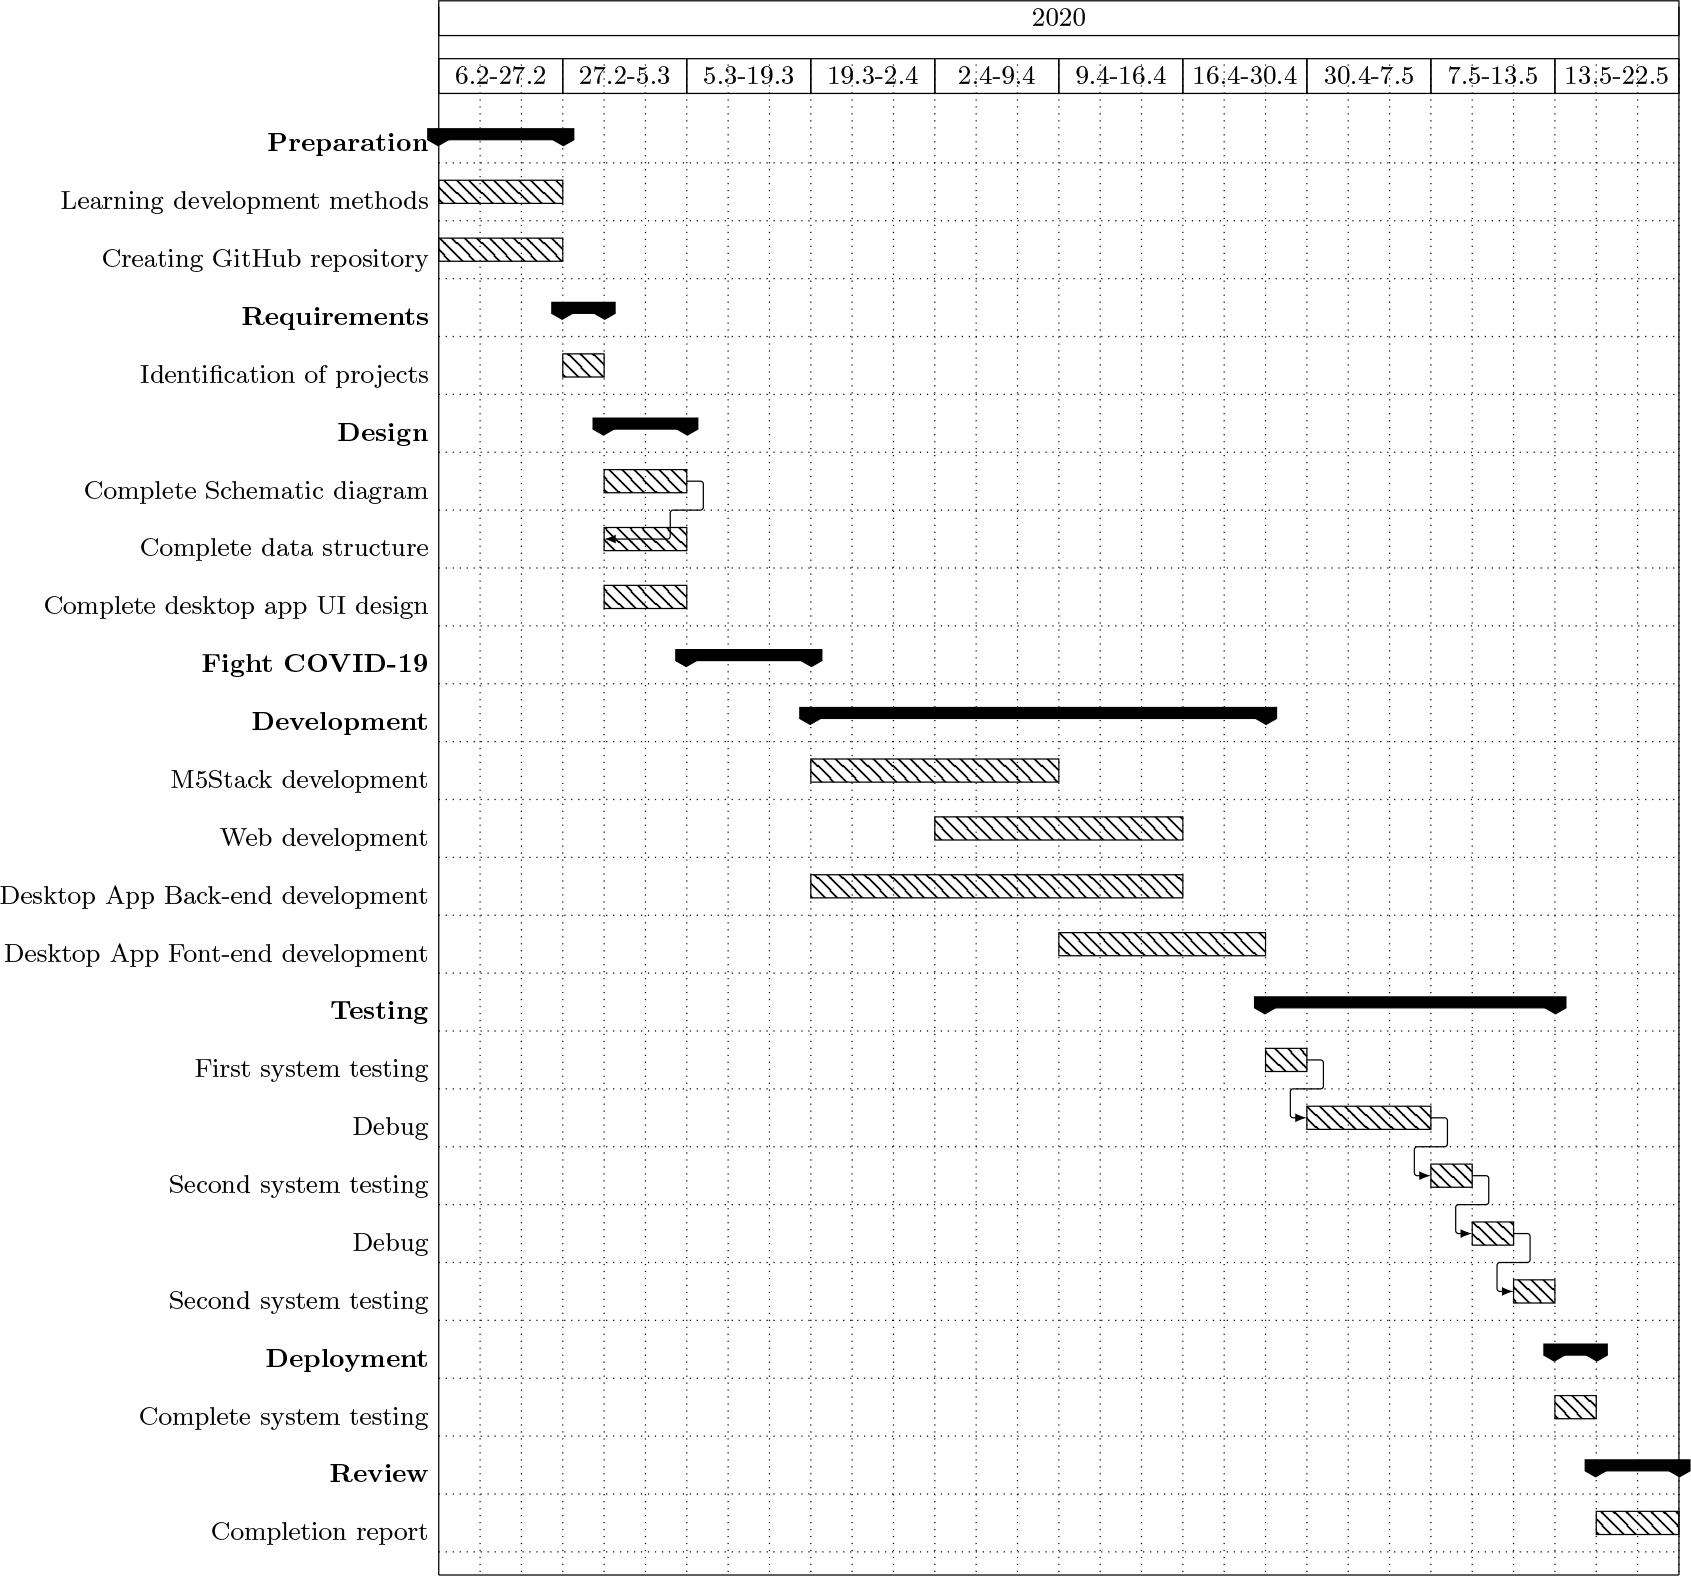
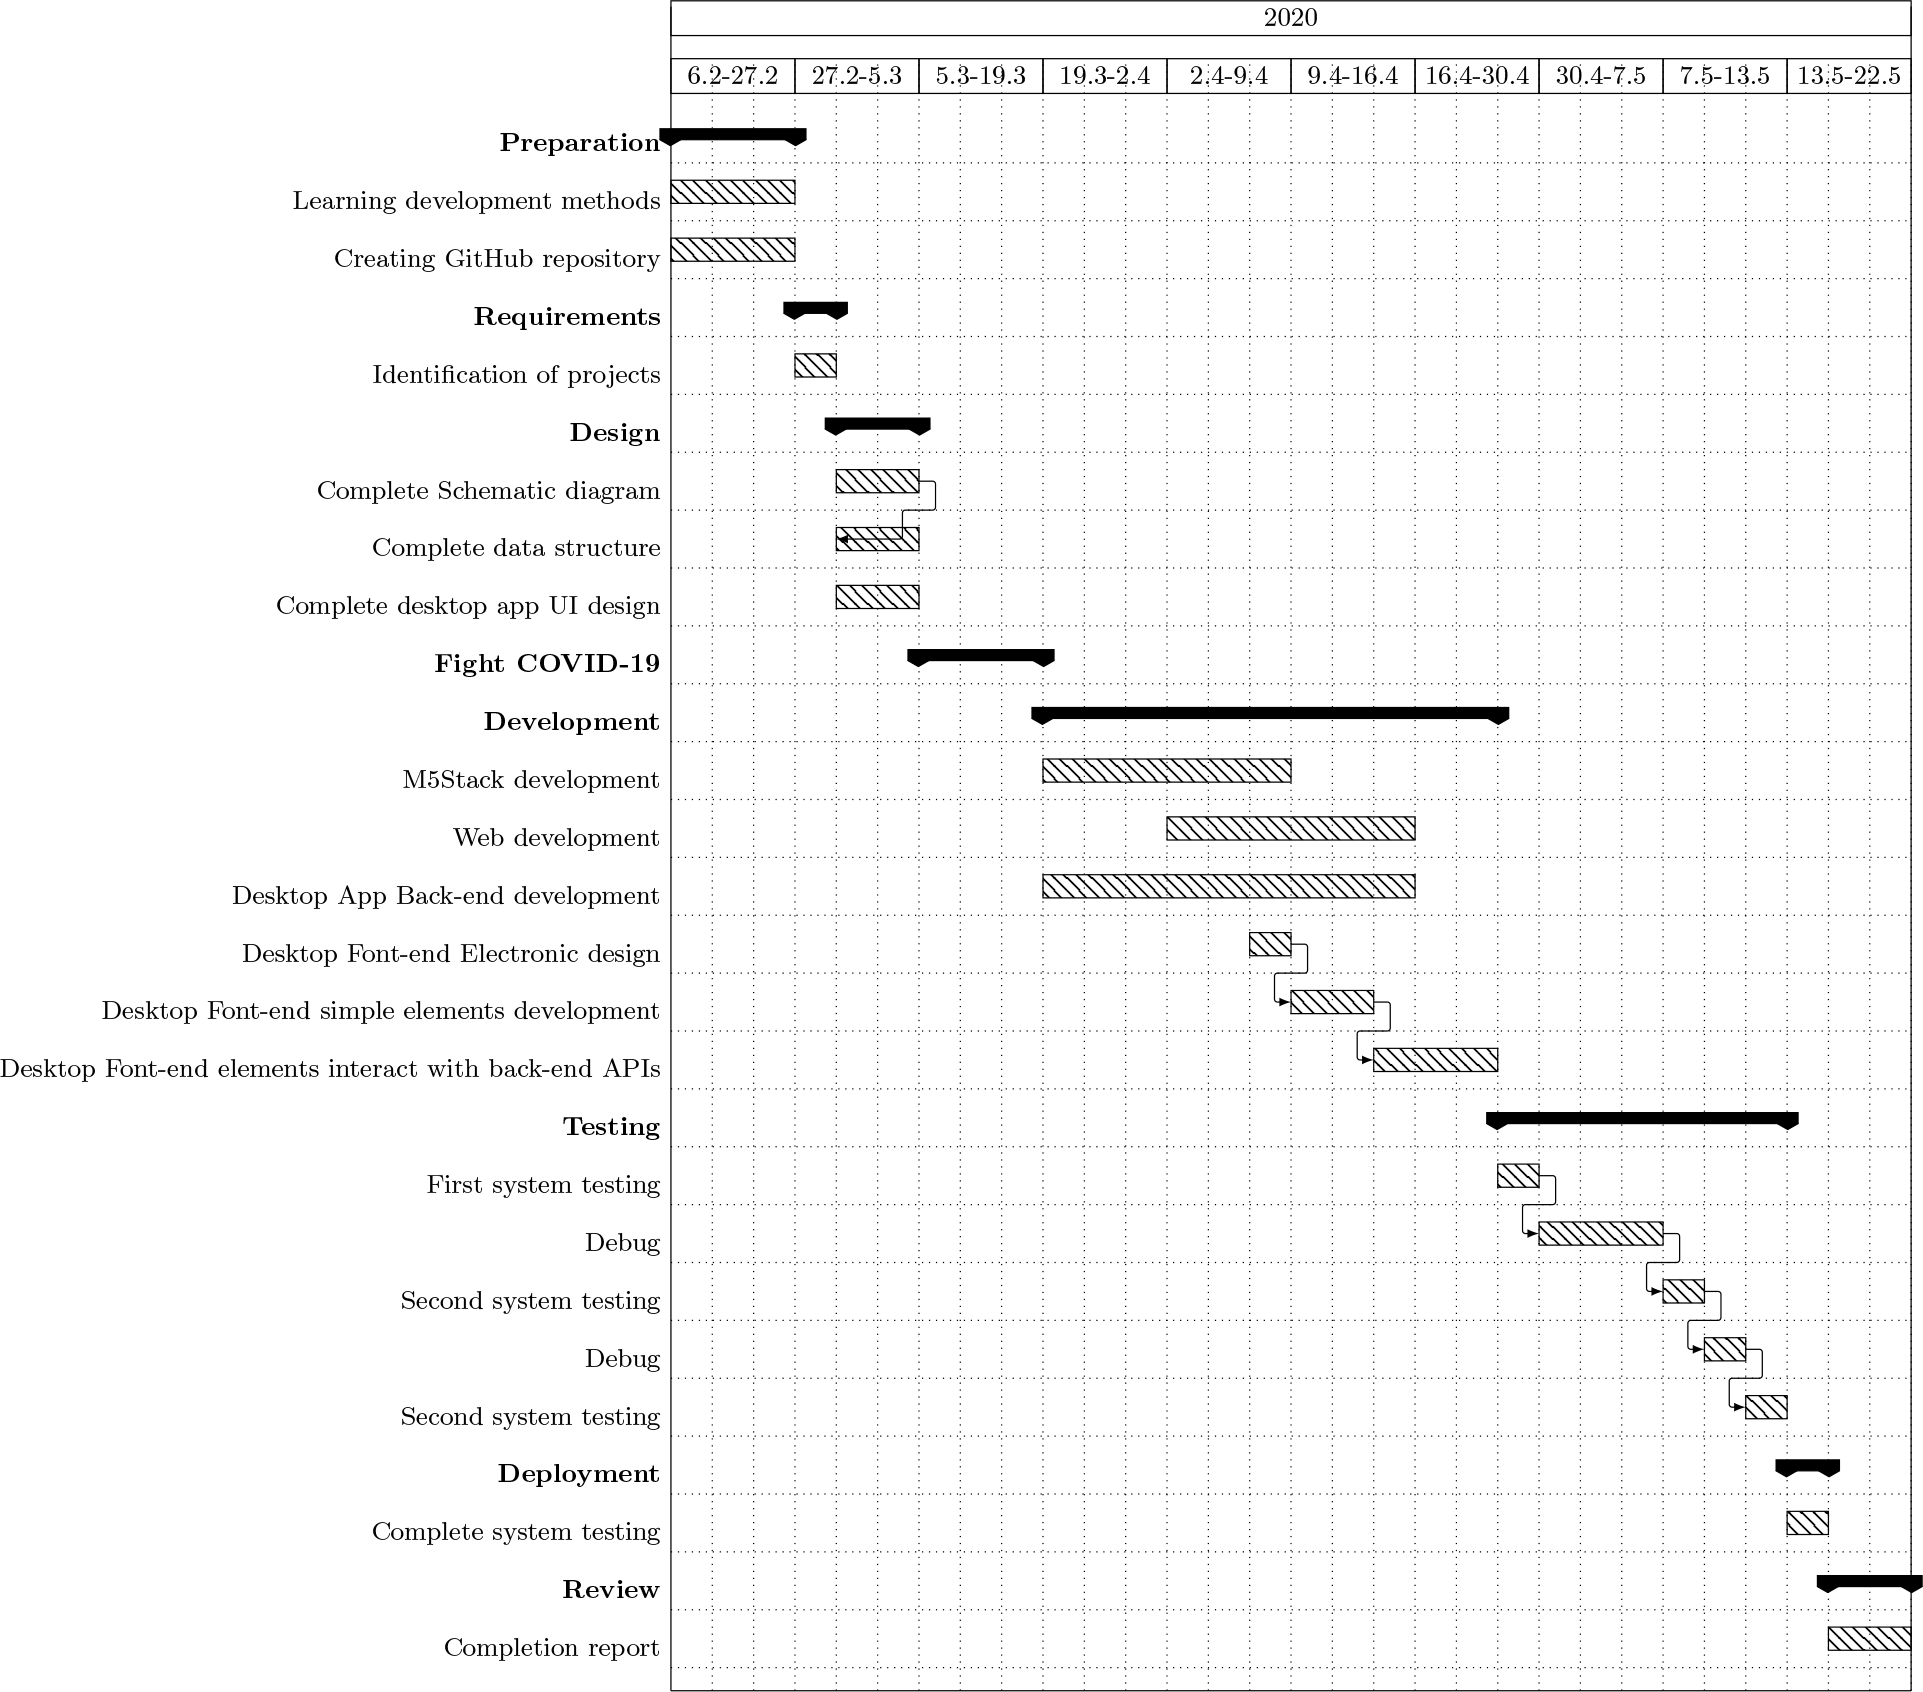
modify gantt

Changed region(s): [[0.0, 0.0, 1.0, 1.0], [0.0923, 0.2176, 0.1538, 0.2487]]

diff --git a/Report/System_implementation/Gantt/gantt.tex b/Report/System_implementation/Gantt/gantt.tex
@@ -9,7 +9,7 @@
 
 
   \scalebox{0.7}{
-  \begin{gantt}[xunitlength=0.5cm,fontsize=\small,titlefontsize=\small,drawledgerline=true]{27}{30}
+  \begin{gantt}[xunitlength=0.5cm,fontsize=\small,titlefontsize=\small,drawledgerline=true]{29}{30}
     \begin{ganttitle}
       \titleelement{2020}{30}
     \end{ganttitle}
@@ -43,7 +43,9 @@
    \ganttbar{M5Stack development}{9}{6}
    \ganttbar{Web development}{12}{6}
    \ganttbar{Desktop App Back-end development}{9}{9}
-   \ganttbar{Desktop App Font-end development}{15}{5}
+   \ganttbar{Desktop Font-end Electronic design}{14}{1}
+   \ganttbarcon{Desktop Font-end simple elements development}{15}{2}
+   \ganttbarcon{Desktop Font-end elements interact with back-end APIs}{17}{3}
    
    \ganttgroup{Testing}{20}{7}
       \ganttbar{First system testing }{20}{1}

diff --git a/Report/System_implementation/2b_destktopApp_Font-end_Yinan.md b/Report/System_implementation/2b_destktopApp_Font-end_Yinan.md
@@ -1,0 +1,3 @@
+# System implementation
+## Details of how you evaluated your designs
+### Desktop App Font-end
